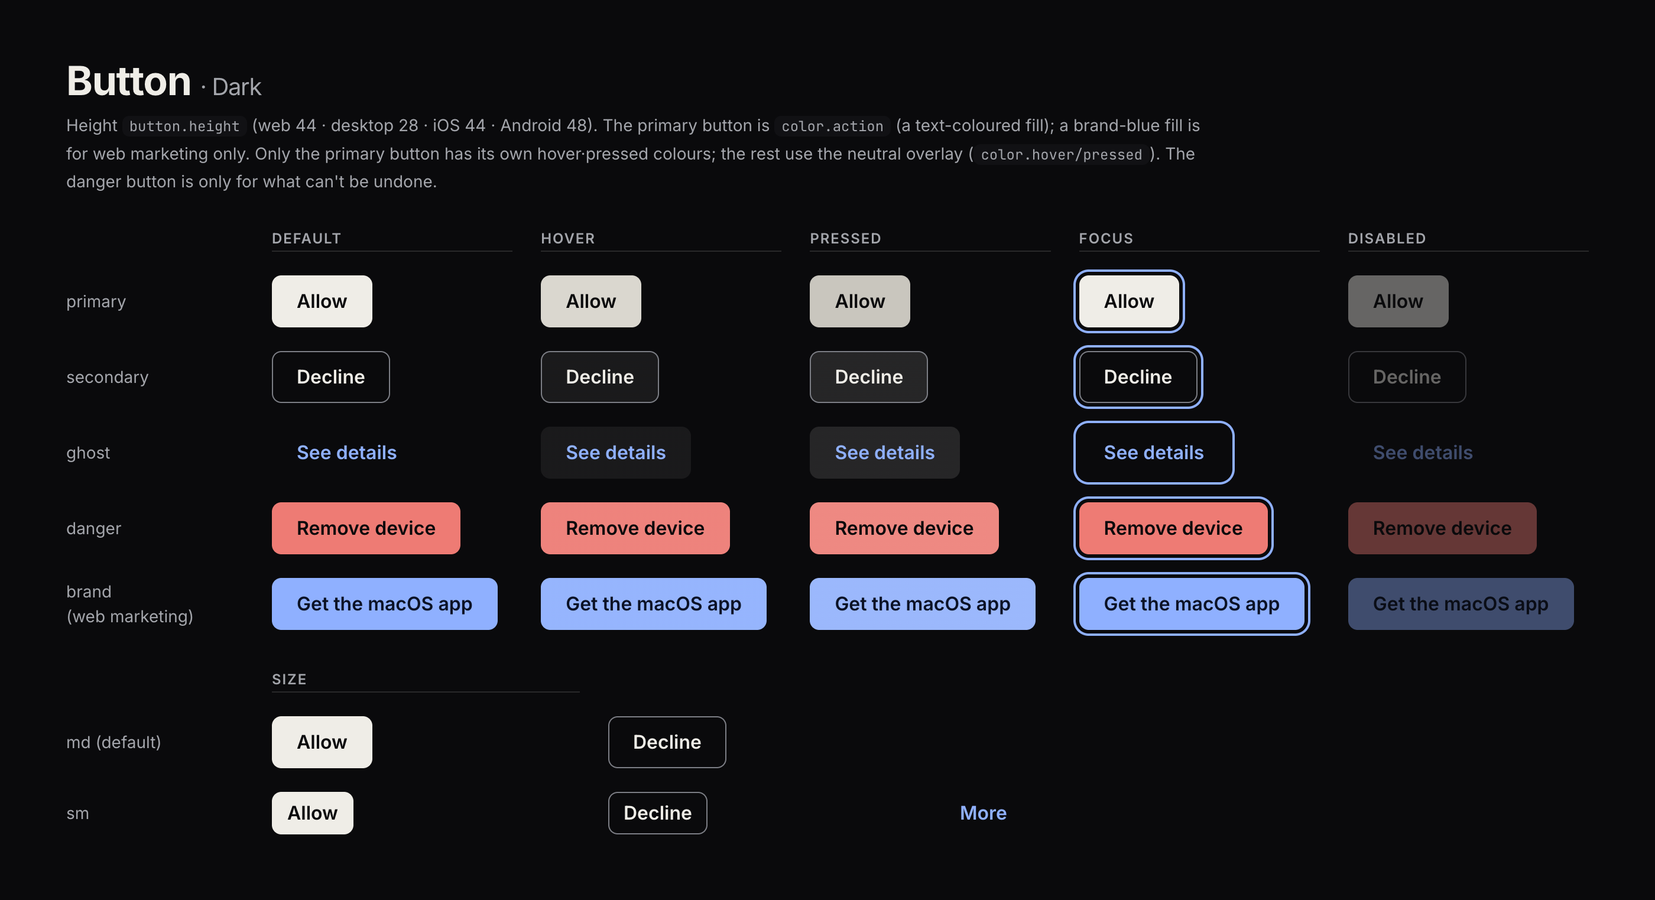
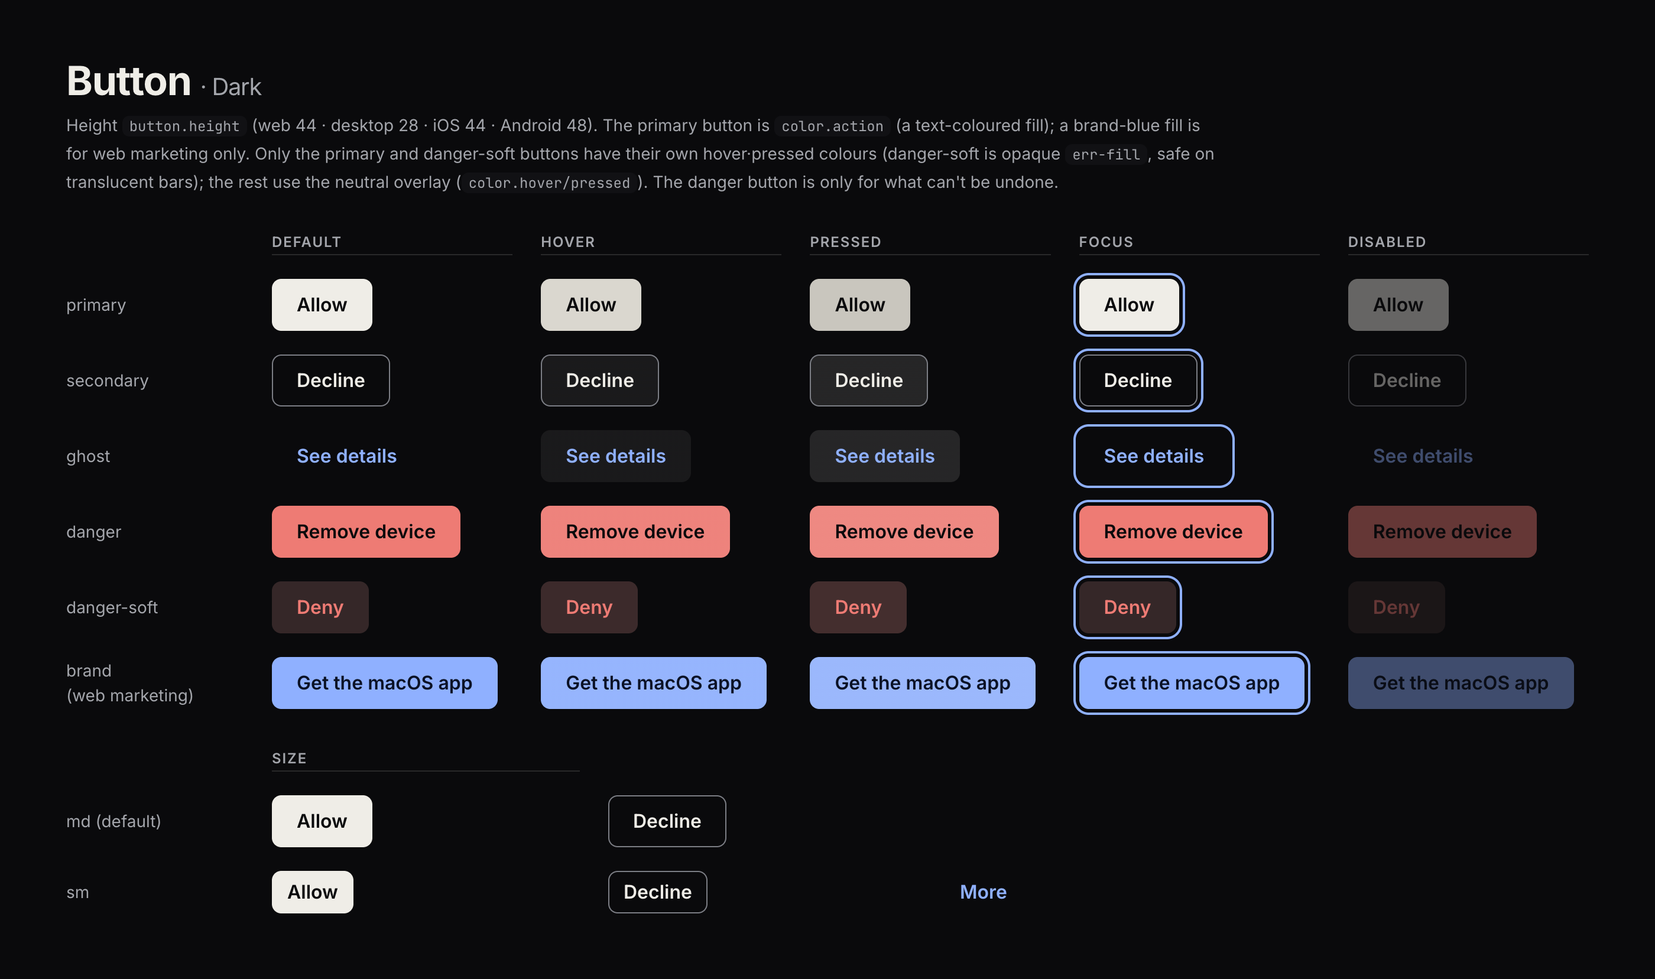
Design system 1.1.0: opaque color.err-fill for the soft destructive button
color.err-fill (light #EEE0DE, dark #352728) with opaque hover and
pressed steps, primitives red.100/150/200/850/875/900, and
button.danger-soft-*. A translucent red over a translucent bar changes
with what scrolls behind it; an opaque fill keeps err text at
5.12 / 5.24:1. Six contrast pairs added, all AA; button sheets
re-rendered with a danger-soft row.

diff --git a/design/build/swift/EquipeTokens.swift b/design/build/swift/EquipeTokens.swift
@@ -47,6 +47,9 @@ public struct EquipeColors {
     public let colorWaitBg: Color
     public let colorErr: Color
     public let colorErrBg: Color
+    public let colorErrFill: Color
+    public let colorErrFillHover: Color
+    public let colorErrFillPressed: Color
     public let colorOnErr: Color
     public let buttonPrimaryBg: Color
     public let buttonPrimaryFg: Color
@@ -61,6 +64,10 @@ public struct EquipeColors {
     public let buttonGhostFg: Color
     public let buttonDangerBg: Color
     public let buttonDangerFg: Color
+    public let buttonDangerSoftBg: Color
+    public let buttonDangerSoftBgHover: Color
+    public let buttonDangerSoftBgPressed: Color
+    public let buttonDangerSoftFg: Color
     public let buttonHoverOverlay: Color
     public let buttonPressedOverlay: Color
     public let buttonFocusRing: Color
@@ -114,7 +121,7 @@ public struct EquipeColors {
     public let toastBg: Color
     public let toastFg: Color
     public let toastActionFg: Color
-    fileprivate init(colorBg: Color, colorSurface: Color, colorRaised: Color, colorSunken: Color, colorText: Color, colorMuted: Color, colorAccent: Color, colorOnAccent: Color, colorAccentBg: Color, colorFocus: Color, colorDot: Color, colorLine: Color, colorBorderStrong: Color, colorAction: Color, colorOnAction: Color, colorActionHover: Color, colorActionPressed: Color, colorHover: Color, colorPressed: Color, colorScrim: Color, colorInverse: Color, colorOnInverse: Color, colorInverseAccent: Color, colorOk: Color, colorOkBg: Color, colorWork: Color, colorWorkBg: Color, colorWait: Color, colorWaitBg: Color, colorErr: Color, colorErrBg: Color, colorOnErr: Color, buttonPrimaryBg: Color, buttonPrimaryFg: Color, buttonPrimaryBgHover: Color, buttonPrimaryBgPressed: Color, buttonBrandBg: Color, buttonBrandFg: Color, buttonSecondaryBg: Color, buttonSecondaryFg: Color, buttonSecondaryBorder: Color, buttonGhostBg: Color, buttonGhostFg: Color, buttonDangerBg: Color, buttonDangerFg: Color, buttonHoverOverlay: Color, buttonPressedOverlay: Color, buttonFocusRing: Color, inputBg: Color, inputFg: Color, inputPlaceholder: Color, inputBorder: Color, inputBorderFocus: Color, inputBorderError: Color, inputErrorFg: Color, inputHelperFg: Color, cardBg: Color, cardBorder: Color, cardTitleFg: Color, cardMetaFg: Color, cardRaisedBg: Color, chipBg: Color, chipFg: Color, chipBorder: Color, chipSelectedBg: Color, chipSelectedFg: Color, chipSelectedBorder: Color, chipHoverOverlay: Color, chipPressedOverlay: Color, badgeNeutralBg: Color, badgeNeutralFg: Color, badgeOkBg: Color, badgeOkFg: Color, badgeWorkBg: Color, badgeWorkFg: Color, badgeWaitBg: Color, badgeWaitFg: Color, badgeErrBg: Color, badgeErrFg: Color, rowFg: Color, rowSecondaryFg: Color, rowDivider: Color, rowHoverBg: Color, rowPressedBg: Color, rowSelectedBg: Color, sheetBg: Color, sheetScrim: Color, sheetGrabber: Color, sheetTitleFg: Color, decisionBg: Color, decisionBorder: Color, decisionWhoFg: Color, decisionWhereFg: Color, decisionCodeBg: Color, decisionCodeFg: Color, toastBg: Color, toastFg: Color, toastActionFg: Color) {
+    fileprivate init(colorBg: Color, colorSurface: Color, colorRaised: Color, colorSunken: Color, colorText: Color, colorMuted: Color, colorAccent: Color, colorOnAccent: Color, colorAccentBg: Color, colorFocus: Color, colorDot: Color, colorLine: Color, colorBorderStrong: Color, colorAction: Color, colorOnAction: Color, colorActionHover: Color, colorActionPressed: Color, colorHover: Color, colorPressed: Color, colorScrim: Color, colorInverse: Color, colorOnInverse: Color, colorInverseAccent: Color, colorOk: Color, colorOkBg: Color, colorWork: Color, colorWorkBg: Color, colorWait: Color, colorWaitBg: Color, colorErr: Color, colorErrBg: Color, colorErrFill: Color, colorErrFillHover: Color, colorErrFillPressed: Color, colorOnErr: Color, buttonPrimaryBg: Color, buttonPrimaryFg: Color, buttonPrimaryBgHover: Color, buttonPrimaryBgPressed: Color, buttonBrandBg: Color, buttonBrandFg: Color, buttonSecondaryBg: Color, buttonSecondaryFg: Color, buttonSecondaryBorder: Color, buttonGhostBg: Color, buttonGhostFg: Color, buttonDangerBg: Color, buttonDangerFg: Color, buttonDangerSoftBg: Color, buttonDangerSoftBgHover: Color, buttonDangerSoftBgPressed: Color, buttonDangerSoftFg: Color, buttonHoverOverlay: Color, buttonPressedOverlay: Color, buttonFocusRing: Color, inputBg: Color, inputFg: Color, inputPlaceholder: Color, inputBorder: Color, inputBorderFocus: Color, inputBorderError: Color, inputErrorFg: Color, inputHelperFg: Color, cardBg: Color, cardBorder: Color, cardTitleFg: Color, cardMetaFg: Color, cardRaisedBg: Color, chipBg: Color, chipFg: Color, chipBorder: Color, chipSelectedBg: Color, chipSelectedFg: Color, chipSelectedBorder: Color, chipHoverOverlay: Color, chipPressedOverlay: Color, badgeNeutralBg: Color, badgeNeutralFg: Color, badgeOkBg: Color, badgeOkFg: Color, badgeWorkBg: Color, badgeWorkFg: Color, badgeWaitBg: Color, badgeWaitFg: Color, badgeErrBg: Color, badgeErrFg: Color, rowFg: Color, rowSecondaryFg: Color, rowDivider: Color, rowHoverBg: Color, rowPressedBg: Color, rowSelectedBg: Color, sheetBg: Color, sheetScrim: Color, sheetGrabber: Color, sheetTitleFg: Color, decisionBg: Color, decisionBorder: Color, decisionWhoFg: Color, decisionWhereFg: Color, decisionCodeBg: Color, decisionCodeFg: Color, toastBg: Color, toastFg: Color, toastActionFg: Color) {
         self.colorBg = colorBg
         self.colorSurface = colorSurface
         self.colorRaised = colorRaised
@@ -146,6 +153,9 @@ public struct EquipeColors {
         self.colorWaitBg = colorWaitBg
         self.colorErr = colorErr
         self.colorErrBg = colorErrBg
+        self.colorErrFill = colorErrFill
+        self.colorErrFillHover = colorErrFillHover
+        self.colorErrFillPressed = colorErrFillPressed
         self.colorOnErr = colorOnErr
         self.buttonPrimaryBg = buttonPrimaryBg
         self.buttonPrimaryFg = buttonPrimaryFg
@@ -160,6 +170,10 @@ public struct EquipeColors {
         self.buttonGhostFg = buttonGhostFg
         self.buttonDangerBg = buttonDangerBg
         self.buttonDangerFg = buttonDangerFg
+        self.buttonDangerSoftBg = buttonDangerSoftBg
+        self.buttonDangerSoftBgHover = buttonDangerSoftBgHover
+        self.buttonDangerSoftBgPressed = buttonDangerSoftBgPressed
+        self.buttonDangerSoftFg = buttonDangerSoftFg
         self.buttonHoverOverlay = buttonHoverOverlay
         self.buttonPressedOverlay = buttonPressedOverlay
         self.buttonFocusRing = buttonFocusRing
@@ -246,6 +260,9 @@ public struct EquipeColors {
         colorWaitBg: Color(0xA04610, 0.122),
         colorErr: Color(0xAD2E27),
         colorErrBg: Color(0xAD2E27, 0.122),
+        colorErrFill: Color(0xEEE0DE),
+        colorErrFillHover: Color(0xEBD9D7),
+        colorErrFillPressed: Color(0xE9D2CF),
         colorOnErr: Color(0xFFFFFF),
         buttonPrimaryBg: Color(0x15161A),
         buttonPrimaryFg: Color(0xF6F5F1),
@@ -260,6 +277,10 @@ public struct EquipeColors {
         buttonGhostFg: Color(0x1D4ED8),
         buttonDangerBg: Color(0xAD2E27),
         buttonDangerFg: Color(0xFFFFFF),
+        buttonDangerSoftBg: Color(0xEEE0DE),
+        buttonDangerSoftBgHover: Color(0xEBD9D7),
+        buttonDangerSoftBgPressed: Color(0xE9D2CF),
+        buttonDangerSoftFg: Color(0xAD2E27),
         buttonHoverOverlay: Color(0x0A0A0C, 0.051),
         buttonPressedOverlay: Color(0x0A0A0C, 0.09),
         buttonFocusRing: Color(0x1D4ED8),
@@ -346,6 +367,9 @@ public struct EquipeColors {
         colorWaitBg: Color(0xEC9A62, 0.122),
         colorErr: Color(0xEE7B74),
         colorErrBg: Color(0xEE7B74, 0.122),
+        colorErrFill: Color(0x352728),
+        colorErrFillHover: Color(0x3C2A2B),
+        colorErrFillPressed: Color(0x442E2E),
         colorOnErr: Color(0x0A0A0C),
         buttonPrimaryBg: Color(0xEFEDE7),
         buttonPrimaryFg: Color(0x0A0A0C),
@@ -360,6 +384,10 @@ public struct EquipeColors {
         buttonGhostFg: Color(0x8FB0FF),
         buttonDangerBg: Color(0xEE7B74),
         buttonDangerFg: Color(0x0A0A0C),
+        buttonDangerSoftBg: Color(0x352728),
+        buttonDangerSoftBgHover: Color(0x3C2A2B),
+        buttonDangerSoftBgPressed: Color(0x442E2E),
+        buttonDangerSoftFg: Color(0xEE7B74),
         buttonHoverOverlay: Color(0xEFEDE7, 0.071),
         buttonPressedOverlay: Color(0xEFEDE7, 0.122),
         buttonFocusRing: Color(0x8FB0FF),

diff --git a/design/build/kotlin/EquipeTokens.kt b/design/build/kotlin/EquipeTokens.kt
@@ -58,6 +58,9 @@ public class EquipeColors(
     public val colorWaitBg: Color,
     public val colorErr: Color,
     public val colorErrBg: Color,
+    public val colorErrFill: Color,
+    public val colorErrFillHover: Color,
+    public val colorErrFillPressed: Color,
     public val colorOnErr: Color,
     public val buttonPrimaryBg: Color,
     public val buttonPrimaryFg: Color,
@@ -72,6 +75,10 @@ public class EquipeColors(
     public val buttonGhostFg: Color,
     public val buttonDangerBg: Color,
     public val buttonDangerFg: Color,
+    public val buttonDangerSoftBg: Color,
+    public val buttonDangerSoftBgHover: Color,
+    public val buttonDangerSoftBgPressed: Color,
+    public val buttonDangerSoftFg: Color,
     public val buttonHoverOverlay: Color,
     public val buttonPressedOverlay: Color,
     public val buttonFocusRing: Color,
@@ -159,6 +166,9 @@ public class EquipeColors(
             colorWaitBg = Color(0x1FA04610),
             colorErr = Color(0xFFAD2E27),
             colorErrBg = Color(0x1FAD2E27),
+            colorErrFill = Color(0xFFEEE0DE),
+            colorErrFillHover = Color(0xFFEBD9D7),
+            colorErrFillPressed = Color(0xFFE9D2CF),
             colorOnErr = Color(0xFFFFFFFF),
             buttonPrimaryBg = Color(0xFF15161A),
             buttonPrimaryFg = Color(0xFFF6F5F1),
@@ -173,6 +183,10 @@ public class EquipeColors(
             buttonGhostFg = Color(0xFF1D4ED8),
             buttonDangerBg = Color(0xFFAD2E27),
             buttonDangerFg = Color(0xFFFFFFFF),
+            buttonDangerSoftBg = Color(0xFFEEE0DE),
+            buttonDangerSoftBgHover = Color(0xFFEBD9D7),
+            buttonDangerSoftBgPressed = Color(0xFFE9D2CF),
+            buttonDangerSoftFg = Color(0xFFAD2E27),
             buttonHoverOverlay = Color(0x0D0A0A0C),
             buttonPressedOverlay = Color(0x170A0A0C),
             buttonFocusRing = Color(0xFF1D4ED8),
@@ -259,6 +273,9 @@ public class EquipeColors(
             colorWaitBg = Color(0x1FEC9A62),
             colorErr = Color(0xFFEE7B74),
             colorErrBg = Color(0x1FEE7B74),
+            colorErrFill = Color(0xFF352728),
+            colorErrFillHover = Color(0xFF3C2A2B),
+            colorErrFillPressed = Color(0xFF442E2E),
             colorOnErr = Color(0xFF0A0A0C),
             buttonPrimaryBg = Color(0xFFEFEDE7),
             buttonPrimaryFg = Color(0xFF0A0A0C),
@@ -273,6 +290,10 @@ public class EquipeColors(
             buttonGhostFg = Color(0xFF8FB0FF),
             buttonDangerBg = Color(0xFFEE7B74),
             buttonDangerFg = Color(0xFF0A0A0C),
+            buttonDangerSoftBg = Color(0xFF352728),
+            buttonDangerSoftBgHover = Color(0xFF3C2A2B),
+            buttonDangerSoftBgPressed = Color(0xFF442E2E),
+            buttonDangerSoftFg = Color(0xFFEE7B74),
             buttonHoverOverlay = Color(0x12EFEDE7),
             buttonPressedOverlay = Color(0x1FEFEDE7),
             buttonFocusRing = Color(0xFF8FB0FF),

diff --git a/design/build/css/tokens.css b/design/build/css/tokens.css
@@ -34,6 +34,9 @@
   --eq-color-wait-bg: #A046101F;
   --eq-color-err: #AD2E27;
   --eq-color-err-bg: #AD2E271F;
+  --eq-color-err-fill: #EEE0DE;
+  --eq-color-err-fill-hover: #EBD9D7;
+  --eq-color-err-fill-pressed: #E9D2CF;
   --eq-color-on-err: #FFFFFF;
 
   /* font */
@@ -157,6 +160,10 @@
   --eq-button-ghost-fg: var(--eq-color-accent);
   --eq-button-danger-bg: var(--eq-color-err);
   --eq-button-danger-fg: var(--eq-color-on-err);
+  --eq-button-danger-soft-bg: var(--eq-color-err-fill);
+  --eq-button-danger-soft-bg-hover: var(--eq-color-err-fill-hover);
+  --eq-button-danger-soft-bg-pressed: var(--eq-color-err-fill-pressed);
+  --eq-button-danger-soft-fg: var(--eq-color-err);
   --eq-button-hover-overlay: var(--eq-color-hover);
   --eq-button-pressed-overlay: var(--eq-color-pressed);
   --eq-button-focus-ring: var(--eq-color-focus);
@@ -323,6 +330,9 @@
     --eq-color-wait-bg: #EC9A621F;
     --eq-color-err: #EE7B74;
     --eq-color-err-bg: #EE7B741F;
+    --eq-color-err-fill: #352728;
+    --eq-color-err-fill-hover: #3C2A2B;
+    --eq-color-err-fill-pressed: #442E2E;
     --eq-color-on-err: #0A0A0C;
   }
 }
@@ -359,6 +369,9 @@
   --eq-color-wait-bg: #EC9A621F;
   --eq-color-err: #EE7B74;
   --eq-color-err-bg: #EE7B741F;
+  --eq-color-err-fill: #352728;
+  --eq-color-err-fill-hover: #3C2A2B;
+  --eq-color-err-fill-pressed: #442E2E;
   --eq-color-on-err: #0A0A0C;
 }
 

diff --git a/design/reference/components.css b/design/reference/components.css
@@ -18,6 +18,9 @@
 .eq-btn--secondary { background-color: var(--eq-button-secondary-bg); color: var(--eq-button-secondary-fg); border-color: var(--eq-button-secondary-border); }
 .eq-btn--ghost { background-color: var(--eq-button-ghost-bg); color: var(--eq-button-ghost-fg); }
 .eq-btn--danger { background-color: var(--eq-button-danger-bg); color: var(--eq-button-danger-fg); }
+.eq-btn--danger-soft { background-color: var(--eq-button-danger-soft-bg); color: var(--eq-button-danger-soft-fg); }
+.eq-btn--danger-soft:hover, .eq-btn--danger-soft.is-hover { background-color: var(--eq-button-danger-soft-bg-hover); }
+.eq-btn--danger-soft:active, .eq-btn--danger-soft.is-pressed { background-color: var(--eq-button-danger-soft-bg-pressed); }
 
 /* ── input ── */
 .eq-field { display: flex; flex-direction: column; gap: var(--eq-input-gap); }

diff --git a/design/build/rust/tokens.rs b/design/build/rust/tokens.rs
@@ -40,6 +40,9 @@ pub struct Palette {
     pub color_wait_bg: u32,
     pub color_err: u32,
     pub color_err_bg: u32,
+    pub color_err_fill: u32,
+    pub color_err_fill_hover: u32,
+    pub color_err_fill_pressed: u32,
     pub color_on_err: u32,
     pub button_primary_bg: u32,
     pub button_primary_fg: u32,
@@ -54,6 +57,10 @@ pub struct Palette {
     pub button_ghost_fg: u32,
     pub button_danger_bg: u32,
     pub button_danger_fg: u32,
+    pub button_danger_soft_bg: u32,
+    pub button_danger_soft_bg_hover: u32,
+    pub button_danger_soft_bg_pressed: u32,
+    pub button_danger_soft_fg: u32,
     pub button_hover_overlay: u32,
     pub button_pressed_overlay: u32,
     pub button_focus_ring: u32,
@@ -141,6 +148,9 @@ pub const LIGHT: Palette = Palette {
     color_wait_bg: 0xA046101F,
     color_err: 0xAD2E27FF,
     color_err_bg: 0xAD2E271F,
+    color_err_fill: 0xEEE0DEFF,
+    color_err_fill_hover: 0xEBD9D7FF,
+    color_err_fill_pressed: 0xE9D2CFFF,
     color_on_err: 0xFFFFFFFF,
     button_primary_bg: 0x15161AFF,
     button_primary_fg: 0xF6F5F1FF,
@@ -155,6 +165,10 @@ pub const LIGHT: Palette = Palette {
     button_ghost_fg: 0x1D4ED8FF,
     button_danger_bg: 0xAD2E27FF,
     button_danger_fg: 0xFFFFFFFF,
+    button_danger_soft_bg: 0xEEE0DEFF,
+    button_danger_soft_bg_hover: 0xEBD9D7FF,
+    button_danger_soft_bg_pressed: 0xE9D2CFFF,
+    button_danger_soft_fg: 0xAD2E27FF,
     button_hover_overlay: 0x0A0A0C0D,
     button_pressed_overlay: 0x0A0A0C17,
     button_focus_ring: 0x1D4ED8FF,
@@ -242,6 +256,9 @@ pub const DARK: Palette = Palette {
     color_wait_bg: 0xEC9A621F,
     color_err: 0xEE7B74FF,
     color_err_bg: 0xEE7B741F,
+    color_err_fill: 0x352728FF,
+    color_err_fill_hover: 0x3C2A2BFF,
+    color_err_fill_pressed: 0x442E2EFF,
     color_on_err: 0x0A0A0CFF,
     button_primary_bg: 0xEFEDE7FF,
     button_primary_fg: 0x0A0A0CFF,
@@ -256,6 +273,10 @@ pub const DARK: Palette = Palette {
     button_ghost_fg: 0x8FB0FFFF,
     button_danger_bg: 0xEE7B74FF,
     button_danger_fg: 0x0A0A0CFF,
+    button_danger_soft_bg: 0x352728FF,
+    button_danger_soft_bg_hover: 0x3C2A2BFF,
+    button_danger_soft_bg_pressed: 0x442E2EFF,
+    button_danger_soft_fg: 0xEE7B74FF,
     button_hover_overlay: 0xEFEDE712,
     button_pressed_overlay: 0xEFEDE71F,
     button_focus_ring: 0x8FB0FFFF,

diff --git a/design/docs/contrast.md b/design/docs/contrast.md
@@ -26,6 +26,9 @@ The disabled state (`opacity.disabled` 0.4) is a WCAG 1.4.3 exception and is lef
 | `on-action` #F6F5F1 | `action-hover` #2A2C33 | 12.78:1 | 4.5:1 | ✅ | primary button hover |
 | `on-action` #F6F5F1 | `action-pressed` #3A3C44 | 10.08:1 | 4.5:1 | ✅ | primary button pressed |
 | `on-err` #FFFFFF | `err` #AD2E27 | 6.57:1 | 4.5:1 | ✅ | destructive button text |
+| `err` #AD2E27 | `err-fill` #EEE0DE | 5.12:1 | 4.5:1 | ✅ | soft destructive button text (Deny) |
+| `err` #AD2E27 | `err-fill-hover` #EBD9D7 | 4.83:1 | 4.5:1 | ✅ | soft destructive button hover |
+| `err` #AD2E27 | `err-fill-pressed` #E9D2CF | 4.56:1 | 4.5:1 | ✅ | soft destructive button pressed |
 | `text` #15161A | `bg` + `hover` #EAE9E5 | 14.89:1 | 4.5:1 | ✅ | text on row hover |
 | `text` #15161A | `surface` + `hover` #F3F3F3 | 16.22:1 | 4.5:1 | ✅ | text on row hover inside a card |
 | `muted` #4F5159 | `surface` + `hover` #F3F3F3 | 7.10:1 | 4.5:1 | ✅ | secondary text on row hover |
@@ -89,6 +92,9 @@ The disabled state (`opacity.disabled` 0.4) is a WCAG 1.4.3 exception and is lef
 | `on-action` #0A0A0C | `action-hover` #DAD7CF | 13.75:1 | 4.5:1 | ✅ | primary button hover |
 | `on-action` #0A0A0C | `action-pressed` #C9C6BE | 11.59:1 | 4.5:1 | ✅ | primary button pressed |
 | `on-err` #0A0A0C | `err` #EE7B74 | 7.27:1 | 4.5:1 | ✅ | destructive button text |
+| `err` #EE7B74 | `err-fill` #352728 | 5.24:1 | 4.5:1 | ✅ | soft destructive button text (Deny) |
+| `err` #EE7B74 | `err-fill-hover` #3C2A2B | 4.95:1 | 4.5:1 | ✅ | soft destructive button hover |
+| `err` #EE7B74 | `err-fill-pressed` #442E2E | 4.61:1 | 4.5:1 | ✅ | soft destructive button pressed |
 | `text` #EFEDE7 | `bg` + `hover` #1A1A1B | 14.84:1 | 4.5:1 | ✅ | text on row hover |
 | `text` #EFEDE7 | `surface` + `hover` #252628 | 12.91:1 | 4.5:1 | ✅ | text on row hover inside a card |
 | `muted` #A3A5AB | `surface` + `hover` #252628 | 6.14:1 | 4.5:1 | ✅ | secondary text on row hover |
@@ -129,4 +135,4 @@ The disabled state (`opacity.disabled` 0.4) is a WCAG 1.4.3 exception and is lef
 | `dot` #3F6FF5 | `surface` #16171A | 4.10:1 | 3:1 | ✅ | brand dot on card |
 | `dot` #3F6FF5 | `raw.neutral.950` #0A0A0C | 4.52:1 | 3:1 | ✅ | brand dot on icon tile (void) |
 
-**Total: 0 of 116 pairs below threshold.**
+**Total: 0 of 122 pairs below threshold.**

diff --git a/design/guidelines.md b/design/guidelines.md
@@ -84,9 +84,11 @@ Source: the brand part (§0–§7) is carried over as is from the T-144 brand gu
 | `dot` | `#3F6FF5` | `#3F6FF5` | **the brand dot** (a logo-only graphic, not a text colour) |
 | `focus` | `#1D4ED8` | `#8FB0FF` | focus ring 2px (offset 3px) |
 | `ok` / `work` / `wait` / `err` | `#1F6B33` / `#825600` / `#A04610` / `#AD2E27` | `#7FCB8E` / `#E2B865` / `#EC9A62` / `#EE7B74` | done / in progress / your turn·waiting for permission / error |
+| `errFill` (hover · pressed) | `#EEE0DE` (`#EBD9D7` · `#E9D2CF`) | `#352728` (`#3C2A2B` · `#442E2E`) | opaque fill behind `err` text — the soft destructive button (Deny). err on it: light 5.12 / 4.83 / 4.56, dark 5.24 / 4.95 / 4.61 :1 |
 | `line` | `rgba(10,10,12,.14)` | `rgba(233,230,223,.14)` | hairline (decoration — not subject to text contrast) |
 
 - The semantic colours' light values (`work` `#825600`, `wait` `#A04610`, `err` `#AD2E27`) and dark values (amber `#E2B865`, orange `#EC9A62`, red `#EE7B74`) are **exactly the desktop `theme.rs`'s current values**. `ok` (done) isn't defined anywhere yet, so it's a **newly chosen value** (proposed): light `#1F6B33`, dark `#7FCB8E`. The meanings: amber = working, orange = waiting on the person (the intent of desktop `theme.rs:132-134`); neither is ever a project colour.
+- **`errFill` is opaque on purpose (T-492)**: a translucent tint (`err-bg`, 12%) over a translucent bar or sheet changes with whatever scrolls behind it, and at 8% over iOS's `.bar` the Deny label fell to 4.27:1 (T-491). The soft destructive button takes `errFill` with `err` text, and for hover·pressed its own opaque steps instead of the `hover`·`pressed` overlays (an overlay on it drops the label below 4.5:1). `err-bg` stays for badges·banners on solid surfaces.
 - **Filled primary button (proposed)**: the marketing web (the site) uses an `accent` fill + `onAccent` text. **Product UI (app·desktop) keeps a `text`-coloured fill as now** (black/bone), with blue only for links·selection·focus·the dot. Why: the app screens are mostly one colour now (audit C2), and with more blue buttons the one important action, like "approve", gets lost.
 - The 8 member avatar colours (`theme.rs:135,163`) aren't the brand palette but *a separate system for telling members apart* — not touched this time (contrast not recomputed).
 

diff --git a/design/CHANGELOG.md b/design/CHANGELOG.md
@@ -2,6 +2,7 @@
 
 One line each: version · date · what · why · platforms affected. Version rules are in `README.md`'s governance.
 
+- **1.1.0 (2026-11-07)** — New `color.err-fill` (light `#EEE0DE` · dark `#352728`) with `err-fill-hover`·`err-fill-pressed`, primitives `red.100/150/200/850/875/900`, and `button.danger-soft-*` (T-492). Why: the iOS Deny button's translucent red fill over the glass bar dropped to 4.27:1 when content scrolled behind it (T-491); an opaque fill holds 5.12 / 5.24:1 whatever is behind. 6 new contrast pairs, all AA. Affects: iOS (T-484 Deny), then Android·desktop·site wherever a soft destructive button appears.
 - **1.0.0 (2026-11-05)** — Count rule (`components.md` §5): one filled `wait` pill for the total, the breakdown as `muted` numbers + status-colour dots. No new tokens. Why: when nearly every project was waiting, the sidebar turned all orange. Affects: the equipe desktop sidebar.
 - **1.0.0 (2026-11-03)** — Pictures in the conversation (T-336): in `visuals/`, a Mermaid theme (card style A, light·dark, the renderer's `Theme` values·generated Rust) and three HTML cards (status board·comparison table·number summary) + a contrast table. No new tokens. Affects: the equipe desktop (T-338), daemon rendering (T-337), mobile (T-339).
 - **1.0.0 (2026-10-19)** — Moved into the repository's `design/` (T-152): T-145's sources·scripts carried over, generating the `tokens.json` the screen reads added (light·dark), the T-144 guidelines as `guidelines.md`, logo SVGs (`assets/logo/`). Values unchanged. Affects: nothing (no screen uses the generated code yet).

diff --git a/design/components/components.md b/design/components/components.md
@@ -22,7 +22,7 @@ Nine: button · input · card · chip · badge · list row · sheet/modal · dec
 
 ## 1. Button — `components/button-*.png`
 - **Use**: starts one action. An area has *one primary button*.
-- **Variants**: `primary` (`color.action` fill — a text-coloured fill, the product UI's primary action) · `secondary` (border `border-strong`) · `ghost` (link-coloured text, no fill — third-rank actions) · `danger` (`err` fill — actions that can't be undone) · `brand` (`accent` blue fill — **web marketing only**, never in product UI. Why: so one action like approving isn't lost, T-144 guide §2.2).
+- **Variants**: `primary` (`color.action` fill — a text-coloured fill, the product UI's primary action) · `secondary` (border `border-strong`) · `ghost` (link-coloured text, no fill — third-rank actions) · `danger` (`err` fill — actions that can't be undone) · `danger-soft` (opaque `err-fill` + `err` text — a refusal next to a primary, like Deny beside Allow; hover·pressed use `err-fill-hover`·`err-fill-pressed`, not the overlays; safe on translucent bars) · `brand` (`accent` blue fill — **web marketing only**, never in product UI. Why: so one action like approving isn't lost, T-144 guide §2.2).
 - **Size**: md = `size.button`, sm = `button.height-sm`. Horizontal padding `button.padding-x`.
 - **Tokens**: `button.*` (`tokens/component.json`).
 
